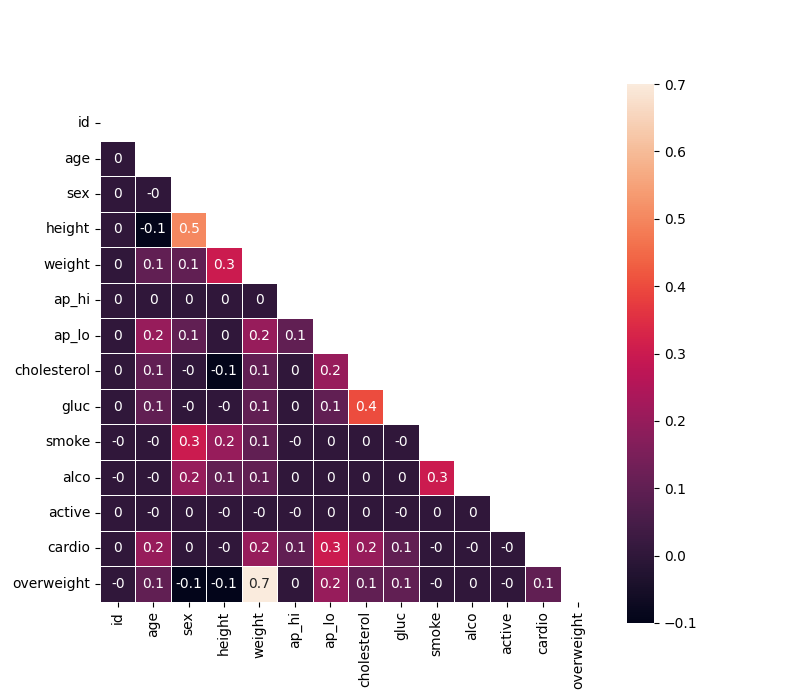
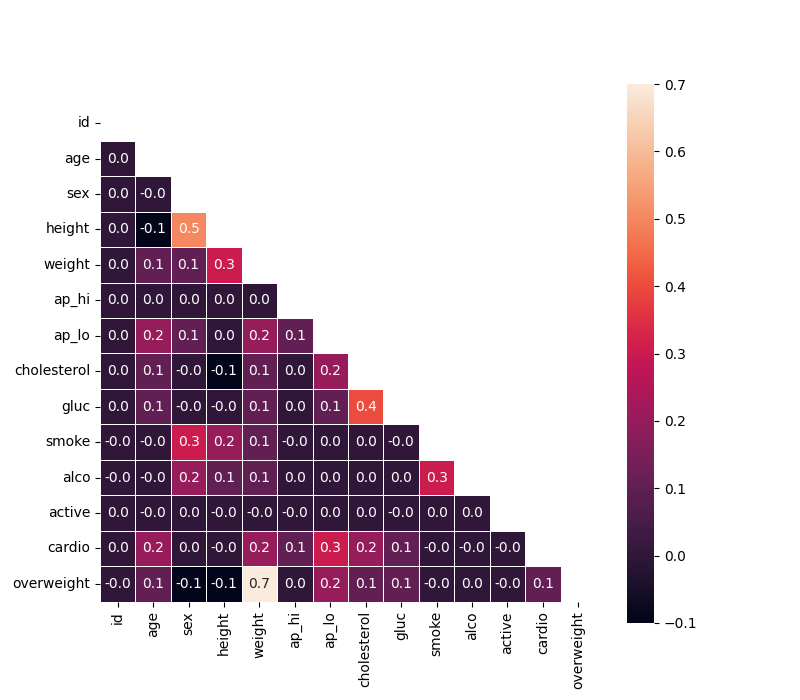
fix: truncated zeroes in heat map

diff --git a/medical_data_visualizer.py b/medical_data_visualizer.py
@@ -73,22 +73,18 @@ def draw_heat_map():
 
     # 12
     corr = df_heat.corr()
-    corr = corr.apply(lambda x: x.round(1))  
+    corr = corr.round(decimals=1)
 
     # 13
     length = corr.index.size
     mask = np.fromfunction(lambda i, j: i <= j, (length,length), dtype=int)
 
     # 14
-
     fig, ax = plt.subplots(figsize=(8,7))
-
-    #ax = sns.heatmap(corr, annot=True, linewidth=0.5, mask=mask)
-    #fig = ax.figure
 
     # 15
 
-    sns.heatmap(corr, annot=True, linewidth=0.5, mask=mask, ax=ax, square=True)
+    sns.heatmap(corr, annot=True, linewidth=0.5, mask=mask, ax=ax, square=True, fmt=".1f")
     #fig.subplots_adjust(top=0.95, bottom=0.13)
 
 
